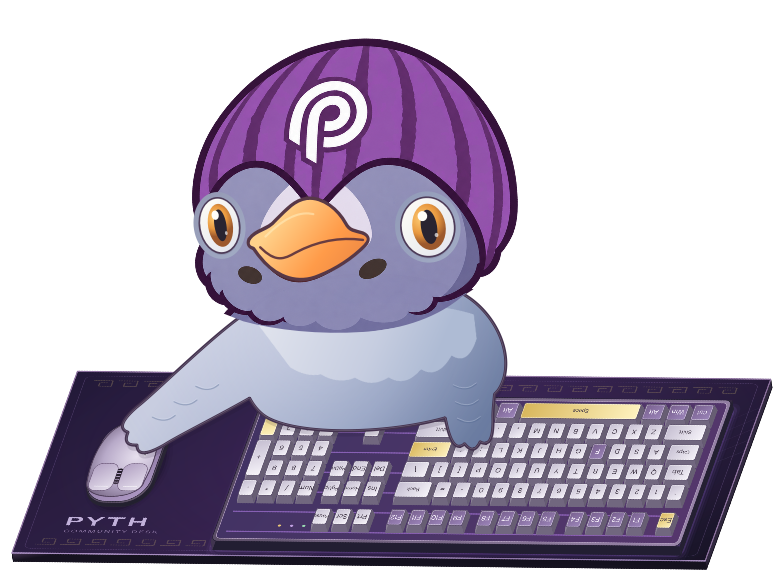
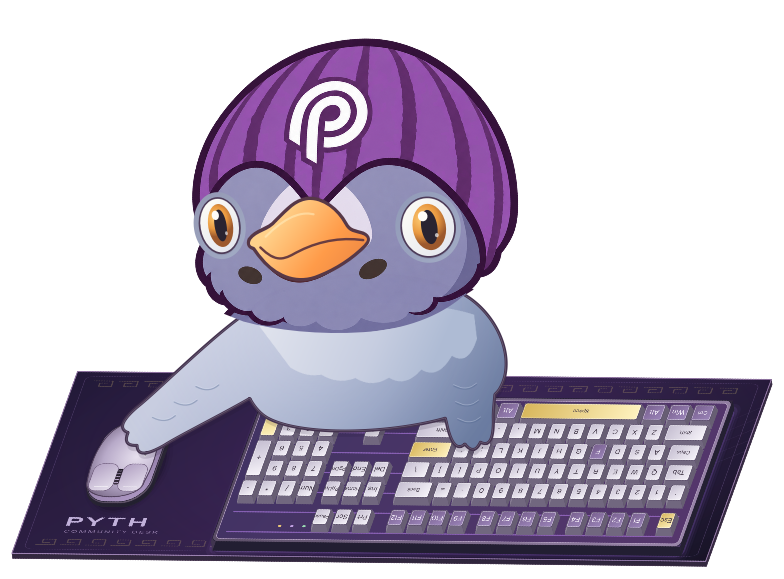
Fix perceived desk corner asymmetry with a continuous thin shell (0.10.1)

diff --git a/installer/uninstall.c b/installer/uninstall.c
@@ -38,10 +38,10 @@ static void remove_shortcut(int folder){
 }
 void pirb_uninstall_start(void){
  DWORD n=GetEnvironmentVariableW(L"LOCALAPPDATA",root,32768);if(!n||n>31000)fail(L"Cannot locate the install folder / Không tìm thấy thư mục cài.");
- lstrcatW(root,L"\\Programs\\PIRBStudio\\0.10.0\\PirbDesk");lstrcpyW(exe,root);lstrcatW(exe,L"\\PirbDesk.exe");
+ lstrcatW(root,L"\\Programs\\PIRBStudio\\0.10.1\\PirbDesk");lstrcpyW(exe,root);lstrcatW(exe,L"\\PirbDesk.exe");
  GetModuleFileNameW(NULL,self,32768);lstrcpyW(command,root);lstrcatW(command,L"\\Uninstall.exe");
  if(!lstrcmpiW(self,command)){
-  if(MessageBoxW(NULL,L"Remove Pirb Desk 0.10.0? Your preferences and custom images will be kept.\n\nGỡ Pirb Desk 0.10.0? Tùy chọn và ảnh riêng được giữ lại.\nHãy thoát PIRB trước / Please exit PIRB first.",title,MB_YESNO|MB_ICONQUESTION)!=IDYES)ExitProcess(0);
+  if(MessageBoxW(NULL,L"Remove Pirb Desk 0.10.1? Your preferences and custom images will be kept.\n\nGỡ Pirb Desk 0.10.1? Tùy chọn và ảnh riêng được giữ lại.\nHãy thoát PIRB trước / Please exit PIRB first.",title,MB_YESNO|MB_ICONQUESTION)!=IDYES)ExitProcess(0);
   HANDLE check=CreateFileW(exe,GENERIC_WRITE,0,NULL,OPEN_EXISTING,FILE_ATTRIBUTE_NORMAL,NULL);
   if(check==INVALID_HANDLE_VALUE)fail(L"Exit PIRB and try again / Hãy thoát hẳn PIRB rồi thử lại.");CloseHandle(check);
   GetTempPathW(32768,tmp);if(!GetTempFileNameW(tmp,L"pru",0,copy))fail(L"Cannot create temporary file / Không tạo được tệp tạm.");
@@ -54,11 +54,11 @@ void pirb_uninstall_start(void){
  BOOL worker=FALSE;const wchar_t *arg=GetCommandLineW();while(*arg){if(!lstrcmpW(arg,L"--remove")){worker=TRUE;break;}arg++;}if(!worker)ExitProcess(1);
  Sleep(600);BOOL removed=FALSE;
  for(int i=0;i<8&&!removed;i++){removed=remove_tree(root);if(!removed)Sleep(200);}
- if(!removed)fail(L"Some files could not be removed. Exit PIRB and remove the 0.10.0 folder manually.\nMột số tệp chưa được gỡ. Hãy thoát PIRB rồi xóa thư mục 0.10.0.");
+ if(!removed)fail(L"Some files could not be removed. Exit PIRB and remove the 0.10.1 folder manually.\nMột số tệp chưa được gỡ. Hãy thoát PIRB rồi xóa thư mục 0.10.1.");
  CoInitializeEx(NULL,COINIT_APARTMENTTHREADED);remove_shortcut(CSIDL_DESKTOPDIRECTORY);remove_shortcut(CSIDL_PROGRAMS);CoUninitialize();
  HKEY key;const wchar_t *reg=L"Software\\Microsoft\\Windows\\CurrentVersion\\Uninstall\\PIRBStudio";wchar_t version[64];DWORD bytes=sizeof(version);
  if(RegOpenKeyExW(HKEY_CURRENT_USER,reg,0,KEY_QUERY_VALUE,&key)==ERROR_SUCCESS){
-  BOOL current=RegQueryValueExW(key,L"DisplayVersion",NULL,NULL,(BYTE*)version,&bytes)==ERROR_SUCCESS&&!lstrcmpW(version,L"0.10.0");RegCloseKey(key);if(current)RegDeleteKeyW(HKEY_CURRENT_USER,reg);
+  BOOL current=RegQueryValueExW(key,L"DisplayVersion",NULL,NULL,(BYTE*)version,&bytes)==ERROR_SUCCESS&&!lstrcmpW(version,L"0.10.1");RegCloseKey(key);if(current)RegDeleteKeyW(HKEY_CURRENT_USER,reg);
  }
- MessageBoxW(NULL,L"Pirb Desk 0.10.0 removed. Preferences kept.\nĐã gỡ Pirb Desk 0.10.0. Tùy chọn được giữ lại.",title,MB_OK|MB_ICONINFORMATION);ExitProcess(0);
+ MessageBoxW(NULL,L"Pirb Desk 0.10.1 removed. Preferences kept.\nĐã gỡ Pirb Desk 0.10.1. Tùy chọn được giữ lại.",title,MB_OK|MB_ICONINFORMATION);ExitProcess(0);
 }

diff --git a/installer/setup.c b/installer/setup.c
@@ -16,7 +16,7 @@ static void folder(wchar_t *path){if(!CreateDirectoryW(path,NULL)&&GetLastError(
 static void register_uninstall(void){
  HKEY key;const wchar_t *path=L"Software\\Microsoft\\Windows\\CurrentVersion\\Uninstall\\PIRBStudio";
  if(RegCreateKeyExW(HKEY_CURRENT_USER,path,0,NULL,0,KEY_SET_VALUE,NULL,&key,NULL)!=ERROR_SUCCESS)return;
- const wchar_t *name=L"Pirb Desk 0.10.0",*version=L"0.10.0",*publisher=L"Pirb Desk Community";
+ const wchar_t *name=L"Pirb Desk 0.10.1",*version=L"0.10.1",*publisher=L"Pirb Desk Community";
  RegSetValueExW(key,L"DisplayName",0,REG_SZ,(const BYTE*)name,(lstrlenW(name)+1)*2);
  RegSetValueExW(key,L"DisplayVersion",0,REG_SZ,(const BYTE*)version,(lstrlenW(version)+1)*2);
  RegSetValueExW(key,L"Publisher",0,REG_SZ,(const BYTE*)publisher,(lstrlenW(publisher)+1)*2);
@@ -50,9 +50,9 @@ static void shortcut(int csidl){
  }
 }
 void pirb_setup_start(void){
- if(MessageBoxW(NULL,L"Cài Pirb Desk 0.10.0 cho tài khoản hiện tại?\n\nWindows 10 (1809+) / 11, 64-bit. Python đã kèm sẵn. Không cần tải hay cài Python riêng.\nWindows 10 (1809+) / 11 x64. Python is bundled; no separate download or installation.\nSẽ tạo biểu tượng Desktop và Start Menu.\nHãy thoát PIRB đang chạy trước khi tiếp tục.",L"Pirb Desk · Cài đặt",MB_YESNO|MB_ICONINFORMATION)!=IDYES)ExitProcess(0);
+ if(MessageBoxW(NULL,L"Cài Pirb Desk 0.10.1 cho tài khoản hiện tại?\n\nWindows 10 (1809+) / 11, 64-bit. Python đã kèm sẵn. Không cần tải hay cài Python riêng.\nWindows 10 (1809+) / 11 x64. Python is bundled; no separate download or installation.\nSẽ tạo biểu tượng Desktop và Start Menu.\nHãy thoát PIRB đang chạy trước khi tiếp tục.",L"Pirb Desk · Cài đặt",MB_YESNO|MB_ICONINFORMATION)!=IDYES)ExitProcess(0);
  DWORD n=GetEnvironmentVariableW(L"LOCALAPPDATA",base,32768);if(!n||n>31000)fail(L"Không tìm thấy thư mục dữ liệu tài khoản.");
- lstrcpyW(destination,base);lstrcatW(destination,L"\\Programs");folder(destination);lstrcatW(destination,L"\\PIRBStudio");folder(destination);lstrcatW(destination,L"\\0.10.0");folder(destination);
+ lstrcpyW(destination,base);lstrcatW(destination,L"\\Programs");folder(destination);lstrcatW(destination,L"\\PIRBStudio");folder(destination);lstrcatW(destination,L"\\0.10.1");folder(destination);
  lstrcpyW(appdir,destination);lstrcatW(appdir,L"\\PirbDesk");lstrcpyW(exe,appdir);lstrcatW(exe,L"\\PirbDesk.exe");
  if(GetFileAttributesW(exe)!=INVALID_FILE_ATTRIBUTES){HANDLE check=CreateFileW(exe,GENERIC_WRITE,0,NULL,OPEN_EXISTING,FILE_ATTRIBUTE_NORMAL,NULL);if(check==INVALID_HANDLE_VALUE)fail(L"PIRB đang chạy. Hãy thoát bằng Exit ở biểu tượng cạnh đồng hồ rồi mở Setup lại.");CloseHandle(check);}
  GetModuleFileNameW(NULL,self,32768);HANDLE source=CreateFileW(self,GENERIC_READ,FILE_SHARE_READ,NULL,OPEN_EXISTING,FILE_ATTRIBUTE_NORMAL,NULL);if(source==INVALID_HANDLE_VALUE)fail(L"Không đọc được file Setup.");

diff --git a/app/skins.py b/app/skins.py
@@ -2,7 +2,7 @@
 from PySide6.QtCore import Qt,QPointF,QRectF
 from PySide6.QtGui import QPixmap,QPainter,QPolygonF,QColor,QTransform,QPainterPath,QLinearGradient,QPen,QRadialGradient,QFont
 from preferences import load_image
-from desk_geometry import tabletop_corners,texture_projection,DESK_DEPTH
+from desk_geometry import tabletop_corners,texture_projection,tabletop_path,desk_body_path
 
 EDGE=tabletop_corners()
 _CLASSIC=None
@@ -48,12 +48,11 @@ def desk_surface(root,prefs):
     layer=QPixmap(2200,1360);layer.setDevicePixelRatio(2);layer.fill(Qt.GlobalColor.transparent)
     p=QPainter(layer);p.setRenderHint(QPainter.RenderHint.Antialiasing);p.setRenderHint(QPainter.RenderHint.SmoothPixmapTransform)
     back_left,back_right,front_right,front_left=EDGE
-    # Front and right fascia share the exact surface corners.
-    for a,b,top,bottom in ((front_left,front_right,'#42334f','#15121f'),(front_right,back_right,'#30283e','#14111d')):
-        face=QPolygonF([a,b,b+QPointF(0,DESK_DEPTH),a+QPointF(0,DESK_DEPTH)])
-        gradient=QLinearGradient(a,a+QPointF(0,DESK_DEPTH));gradient.setColorAt(0,QColor(top));gradient.setColorAt(1,QColor(bottom))
-        p.setBrush(gradient);p.setPen(QPen(QColor('#171320'),1));p.drawPolygon(face)
-    shape=QPainterPath();shape.addPolygon(QPolygonF(EDGE));shape.closeSubpath();p.setClipPath(shape)
+    # A single thin shell avoids a darker right strip and double-stroked corner.
+    p.setBrush(QColor('#33283f'))
+    p.setPen(QPen(QColor('#45364f'),.9,Qt.PenStyle.SolidLine,Qt.PenCapStyle.RoundCap,Qt.PenJoinStyle.RoundJoin))
+    p.drawPath(desk_body_path())
+    shape=tabletop_path();p.setClipPath(shape)
     gradient=QLinearGradient(200,300,850,620);gradient.setColorAt(0,QColor('#403448'));gradient.setColorAt(1,QColor('#282333'));p.fillPath(shape,gradient)
     path=skin_path(root,prefs)
     image=classic_surface() if prefs['skin']=='pyth_classic' else None
@@ -67,8 +66,9 @@ def desk_surface(root,prefs):
         p.save();p.setTransform(texture_projection(),True)
         p.drawPixmap(QRectF(0,0,1000,600),image,source_crop(image.width(),image.height(),prefs));p.restore()
         p.fillPath(shape,QColor(19,13,31,round(255*(1-prefs['brightness']/100))))
-    p.setClipping(False);p.setBrush(Qt.BrushStyle.NoBrush);p.setPen(QPen(QColor('#8c719e'),1.5));p.drawPath(shape)
-    p.setPen(QPen(QColor(205,181,238,110),1.7));p.drawLine(front_left,front_right)
+    p.setClipping(False);p.setBrush(Qt.BrushStyle.NoBrush)
+    p.setPen(QPen(QColor('#8c719e'),1.25,Qt.PenStyle.SolidLine,Qt.PenCapStyle.RoundCap,Qt.PenJoinStyle.RoundJoin));p.drawPath(shape)
+    p.setPen(QPen(QColor(205,181,238,70),1.1));p.drawLine(front_left,front_right)
     p.end();return layer
 
 def draw_rgb(p,board,mode,elapsed):

diff --git a/tests/test_desk_audio.py b/tests/test_desk_audio.py
@@ -10,7 +10,7 @@ from pathlib import Path
 os.environ.setdefault('QT_QPA_PLATFORM','offscreen')
 sys.path.insert(0,str(Path(__file__).resolve().parents[1]/'app'))
 from PySide6.QtCore import QPointF,QSettings
-from PySide6.QtGui import QPainterPath,QPolygonF
+from PySide6.QtGui import QPainterPath,QPolygonF,QTransform
 from PySide6.QtWidgets import QApplication
 import custom_audio as audio
 import desk_geometry as desk
@@ -39,6 +39,18 @@ class DeskAndAudioTests(unittest.TestCase):
         self.assertLess(front_left.x(),back_left.x());self.assertGreater(front_left.y(),back_left.y())
         shape=QPainterPath();shape.addPolygon(QPolygonF(desk.tabletop_corners()))
         self.assertTrue(shape.contains(QPointF(245,420)))
+
+    def test_table_shell_is_continuous_and_side_vectors_match_after_rotation(self):
+        body=desk.desk_body_path()
+        self.assertEqual(len(body.toFillPolygons()),1)
+        a,b,c,d=desk.tabletop_corners()
+        for start,end in ((d,c),(c,b)):
+            self.assertTrue(body.contains((start+end)/2+QPointF(0,desk.DESK_DEPTH/2)))
+        for angle in range(-180,181,15):
+            transform=QTransform();transform.rotate(angle)
+            aa,bb,cc,dd=[transform.map(p) for p in (a,b,c,d)]
+            self.assertLess(((dd-aa)-(cc-bb)).manhattanLength(),1e-7)
+        self.assertLessEqual(body.boundingRect().height(),desk.tabletop_path().boundingRect().height()+desk.DESK_DEPTH+.001)
 
     def test_surface_is_not_clipped_and_old_images_still_render(self):
         root=Path(__file__).resolve().parents[1]/'app'

diff --git a/app/desk_geometry.py b/app/desk_geometry.py
@@ -1,6 +1,6 @@
 """One plane for the keyboard, tabletop, texture and view bounds."""
 from PySide6.QtCore import QPointF, QRectF
-from PySide6.QtGui import QTransform
+from PySide6.QtGui import QTransform, QPainterPath, QPolygonF
 
 
 def keyboard_projection():
@@ -10,7 +10,7 @@ def keyboard_projection():
 # Board units. Include the mouse to the left of the keyboard in screen space.
 DESK_RECT = QRectF(-45, -20, 855, 255)
 TEXTURE_RECT = QRectF(0, 0, 1000, 600)
-DESK_DEPTH = 10
+DESK_DEPTH = 6
 
 
 def tabletop_corners():
@@ -32,3 +32,25 @@ def texture_projection():
 def desk_outline():
     points = tabletop_corners()
     return points + [point + QPointF(0, DESK_DEPTH) for point in points]
+
+
+def tabletop_path():
+    path = QPainterPath()
+    path.addPolygon(QPolygonF(tabletop_corners()))
+    path.closeSubpath()
+    return path
+
+
+def desk_body_path():
+    """One swept solid, without overlapping front/right fascia outlines."""
+    corners = tabletop_corners()
+    offset = QPointF(0, DESK_DEPTH)
+    body = tabletop_path()
+    body = body.united(QTransform.fromTranslate(0, DESK_DEPTH).map(body))
+    for index, a in enumerate(corners):
+        b = corners[(index + 1) % len(corners)]
+        face = QPainterPath()
+        face.addPolygon(QPolygonF([a, b, b + offset, a + offset]))
+        face.closeSubpath()
+        body = body.united(face)
+    return body

diff --git a/app/version.py b/app/version.py
@@ -1,5 +1,5 @@
 """Release metadata shared by the UI and packaging tools."""
-VERSION = '0.10.0'
+VERSION = '0.10.1'
 APP_NAME = 'Pirb Desk'
 ARTIFACT_PREFIX = 'Pirb_Desk'
 LEGACY_ARTIFACT_PREFIX = 'PIRB_Studio'

diff --git a/README.md b/README.md
@@ -1,10 +1,16 @@
-# Pirb Desk 0.10.0
+# Pirb Desk 0.10.1
 
 Previously **PIRB Studio**. Community desktop companion; not an official Pyth product. The repository URL and stable preference/data IDs stay unchanged for upgrades.
 
 ![Pirb Desk / Pyth Classic](docs/pirb-desk.png)
 
-## New in 0.10.0
+## 0.10.1 visual correction
+
+The desk now uses one continuous, thinner body with a consistent outline. This removes the separately shaded right fascia and double-stroked front-right corner that made the right side look steeper. The actual left/right tabletop depth vectors remain identical; keyboard/hand contact and pose are unchanged.
+
+![Desk corners on white](docs/desk-corners.png)
+
+## Features introduced in 0.10.0
 
 The tabletop, texture and keyboard now share one projection, with a thin desk fascia. New profiles use a quiet purple **Pyth Classic** surface. Existing profiles keep their selected images; choose **Appearance → Use Pyth Classic background** to switch.
 
@@ -12,12 +18,12 @@ The tabletop, texture and keyboard now share one projection, with a thin desk fa
 
 ## Upgrading and compatibility
 
-Download **Pirb_Desk_0.10.0_Windows_x64_Setup.exe**. Exit the old app, install, then use the **Pirb Desk** shortcut. Language, images, pose and volume are retained. Setup removes the old named shortcut only when it targets the app-owned installed PIRB.exe. Old version folders are retained.
+Download **Pirb_Desk_0.10.1_Windows_x64_Setup.exe**. Exit the old app, install, then use the **Pirb Desk** shortcut. Language, images, pose and volume are retained. Setup removes the old named shortcut only when it targets the app-owned installed PIRB.exe. Old version folders are retained.
 
-The release also includes **PIRB_Studio_0.10.0_Windows_x64_Setup.exe**, a byte-identical installer alias for installed 0.9.x update clients. Download only one Setup. Both names are listed in SHA256SUMS.txt. New clients accept the new and legacy asset names. The stable install parent and uninstall registry key keep their old internal IDs deliberately.
+The release also includes **PIRB_Studio_0.10.1_Windows_x64_Setup.exe**, a byte-identical installer alias for installed 0.9.x update clients. Download only one Setup. Both names are listed in SHA256SUMS.txt. New clients accept the new and legacy asset names. The stable install parent and uninstall registry key keep their old internal IDs deliberately.
 
 
-[Tiếng Việt](README_VI.md) · **Version 0.10.0** · Windows x64
+[Tiếng Việt](README_VI.md) · **Version 0.10.1** · Windows x64
 
 An animated pigeon desktop companion that reacts to typing and mouse clicks. Customize the scene, expressions, effects and sounds in a Pythenians-inspired purple, gold and ivory Settings window.
 
@@ -25,7 +31,7 @@ An animated pigeon desktop companion that reacts to typing and mouse clicks. Cus
 
 ## Install
 
-Download **Pirb_Desk_0.10.0_Windows_x64_Setup.exe** from the repository's **Releases**. GitHub's **Code → Download ZIP** downloads source code, not the ready-to-run app.
+Download **Pirb_Desk_0.10.1_Windows_x64_Setup.exe** from the repository's **Releases**. GitHub's **Code → Download ZIP** downloads source code, not the ready-to-run app.
 
 1. Exit old PIRB using its system-tray menu.
 2. Run Setup and confirm the installation.
@@ -33,9 +39,9 @@ Download **Pirb_Desk_0.10.0_Windows_x64_Setup.exe** from the repository's **Rele
 
 Python, Qt, artwork, sounds and both Settings languages are bundled. No Python, pip, WinRAR or administrator rights are needed. Setup and the companion work offline after downloading; optional update checks need internet. No separate Settings patch is needed.
 
-Install location: `%LOCALAPPDATA%\Programs\PIRBStudio\0.10.0\PirbDesk`.
+Install location: `%LOCALAPPDATA%\Programs\PIRBStudio\0.10.1\PirbDesk`.
 
-Portable alternative: extract the **entire** `Pirb_Desk_0.10.0_Windows_x64_Portable.zip`, then run `PirbDesk\PirbDesk.exe`. Keep `_internal` beside the executable. Do not run inside an archive viewer. Portable also stores preferences in your Windows user profile.
+Portable alternative: extract the **entire** `Pirb_Desk_0.10.1_Windows_x64_Portable.zip`, then run `PirbDesk\PirbDesk.exe`. Keep `_internal` beside the executable. Do not run inside an archive viewer. Portable also stores preferences in your Windows user profile.
 
 ## Requirements
 
@@ -80,7 +86,7 @@ After you choose Update now, the app downloads only this repository's Windows x6
 
 Exit the old app before upgrading. Existing preferences are reused. Old version folders/downloads are preserved, not automatically deleted.
 
-For an installed copy, exit PIRB and use **Windows Settings → Apps → Pirb Desk 0.10.0 → Uninstall**, or run its `Uninstall.exe`. Preferences/custom images remain. For portable, exit and delete its extracted folder; the included uninstaller targets the installed location only.
+For an installed copy, exit PIRB and use **Windows Settings → Apps → Pirb Desk 0.10.1 → Uninstall**, or run its `Uninstall.exe`. Preferences/custom images remain. For portable, exit and delete its extracted folder; the included uninstaller targets the installed location only.
 
 If startup fails, run `_internal\support\DIAGNOSTICS.bat`. Errors may be written to `%LOCALAPPDATA%\PIRBDesktop\startup-error.log`. For sound issues check Windows output/Volume Mixer and the Sound tab. If another app's keys do not animate, test with a normal non-elevated app. Report the exact message, PIRB version and Windows version. The community build is unsigned and Windows may warn about its publisher; the app does not require disabling protection.
 

diff --git a/README_VI.md b/README_VI.md
@@ -1,4 +1,4 @@
-# Pirb Desk 0.10.0
+# Pirb Desk 0.10.1
 
 [English](README.md) · Chim bồ câu phản hồi bàn phím và chuột trên Windows.
 
@@ -6,7 +6,13 @@
 
 ![Pirb Desk với mặt bàn Pyth Classic](docs/pirb-desk.png)
 
-### Mới trong 0.10.0
+### Sửa góc bàn trong 0.10.1
+
+Dựng cạnh bàn thành một khối liền và mỏng hơn, thống nhất màu/viền, bỏ dải cạnh phải tối và nét chồng ở góc trước. Hai cạnh mặt trên vẫn giữ chung hướng hình học; không đổi vị trí bàn phím hay điểm chạm cánh.
+
+![Góc bàn trên nền trắng](docs/desk-corners.png)
+
+### Các tính năng từ 0.10.0
 
 - Mặt bàn và bàn phím dùng chung hệ phối cảnh; cạnh bàn có chiều dày, không còn nghiêng so le.
 - **Pyth Classic** tím là nền mặc định cho hồ sơ mới. Hồ sơ cũ giữ nền đã chọn; vào Giao diện → **Dùng nền Pyth Classic** để chuyển.
@@ -29,14 +35,14 @@
 
 ## Cài đặt
 
-1. Vào **Releases**, tải **Pirb_Desk_0.10.0_Windows_x64_Setup.exe**. **Code → Download ZIP** chỉ là mã nguồn, không phải bộ cài.
+1. Vào **Releases**, tải **Pirb_Desk_0.10.1_Windows_x64_Setup.exe**. **Code → Download ZIP** chỉ là mã nguồn, không phải bộ cài.
 2. Thoát hẳn PIRB bằng menu biểu tượng cạnh đồng hồ.
 3. Mở Setup, đồng ý cài cho tài khoản hiện tại.
 4. Mở **Pirb Desk** từ Desktop hoặc Start Menu.
 
-Không cần quyền quản trị hay tệp cập nhật Settings riêng. Thư mục cài: `%LOCALAPPDATA%\Programs\PIRBStudio\0.10.0\PirbDesk`.
+Không cần quyền quản trị hay tệp cập nhật Settings riêng. Thư mục cài: `%LOCALAPPDATA%\Programs\PIRBStudio\0.10.1\PirbDesk`.
 
-Bản portable: giải nén **toàn bộ** `Pirb_Desk_0.10.0_Windows_x64_Portable.zip`, mở `PirbDesk\PirbDesk.exe`, giữ `_internal` bên cạnh. Không mở trực tiếp trong WinRAR. Portable vẫn lưu tùy chọn vào hồ sơ Windows.
+Bản portable: giải nén **toàn bộ** `Pirb_Desk_0.10.1_Windows_x64_Portable.zip`, mở `PirbDesk\PirbDesk.exe`, giữ `_internal` bên cạnh. Không mở trực tiếp trong WinRAR. Portable vẫn lưu tùy chọn vào hồ sơ Windows.
 
 ## Cách sử dụng
 
@@ -53,9 +59,9 @@ Mọi thay đổi lưu tự động. Chỉ chạy một phiên PIRB. Không tự
 
 ## Đổi tên và nâng cấp từ PIRB Studio
 
-Tải bộ cài **Pirb_Desk_0.10.0_Windows_x64_Setup.exe**, thoát app cũ rồi cài. Shortcut mới tên **Pirb Desk**; Setup chỉ gỡ shortcut PIRB Studio cũ nếu nó trỏ đúng bản cài do app sở hữu. Không xóa các thư mục phiên bản cũ hoặc dữ liệu riêng.
+Tải bộ cài **Pirb_Desk_0.10.1_Windows_x64_Setup.exe**, thoát app cũ rồi cài. Shortcut mới tên **Pirb Desk**; Setup chỉ gỡ shortcut PIRB Studio cũ nếu nó trỏ đúng bản cài do app sở hữu. Không xóa các thư mục phiên bản cũ hoặc dữ liệu riêng.
 
-Bản phát hành cũng có **PIRB_Studio_0.10.0_Windows_x64_Setup.exe**: đây là bản sao cùng nội dung/checksum, chỉ để updater 0.9.x nhận được tên tệp quen thuộc. Cả hai cài cùng Pirb Desk, chỉ cần tải một file. Giữ repo `liemdak/pirb-studio`, registry/QSettings/app-data ID cũ là chủ ý tương thích, không phải đổi tên còn sót.
+Bản phát hành cũng có **PIRB_Studio_0.10.1_Windows_x64_Setup.exe**: đây là bản sao cùng nội dung/checksum, chỉ để updater 0.9.x nhận được tên tệp quen thuộc. Cả hai cài cùng Pirb Desk, chỉ cần tải một file. Giữ repo `liemdak/pirb-studio`, registry/QSettings/app-data ID cũ là chủ ý tương thích, không phải đổi tên còn sót.
 
 ## Tự nhận biết bản cập nhật
 
@@ -73,7 +79,7 @@ Chỉ khi đồng ý, app mới tải bộ cài x64, hiện tiến trình/nút H
 
 Thoát bản cũ trước khi cài. 0.10.0 đọc lại tùy chọn cũ; ngôn ngữ mặc định là tiếng Việt khi chưa có lựa chọn. Setup không xóa thư mục bản cũ hoặc dọn Downloads.
 
-Gỡ bản cài qua **Windows Settings → Apps → Pirb Desk 0.10.0 → Uninstall** hoặc `Uninstall.exe` trong thư mục cài. Tùy chọn và ảnh riêng vẫn giữ lại. Với portable: thoát rồi xóa thư mục giải nén; trình gỡ đi kèm chỉ dành cho đường dẫn của bản cài.
+Gỡ bản cài qua **Windows Settings → Apps → Pirb Desk 0.10.1 → Uninstall** hoặc `Uninstall.exe` trong thư mục cài. Tùy chọn và ảnh riêng vẫn giữ lại. Với portable: thoát rồi xóa thư mục giải nén; trình gỡ đi kèm chỉ dành cho đường dẫn của bản cài.
 
 Không mở được: chạy `_internal\support\DIAGNOSTICS.bat`, kiểm tra `%LOCALAPPDATA%\PIRBDesktop\startup-error.log` nếu có. Không có tiếng: kiểm tra thiết bị phát/Volume Mixer và tab Âm thanh. Không nhận phím từ app khác: thử một app mở bình thường, không nâng quyền. PIRB báo đã chạy: tìm biểu tượng ở khay hệ thống, có thể trong mũi tên cạnh đồng hồ.
 

diff --git a/docs/VALIDATION.md b/docs/VALIDATION.md
@@ -1,4 +1,4 @@
-# Validation status — 0.10.0
+# Validation status — 0.10.1
 
 Local builds use Linux and official Windows x64 runtime inputs. Tests cover language changes without preference resets, persistence, dynamic image entries, menus, layout bounds, transform/contact regression and preference migration. UI images are rendered offscreen.
 
@@ -12,3 +12,6 @@ Update tests cover semantic version ordering, release channels/assets/URLs, no d
 
 
 0.10.0 adds 22 local regression tests in total: shared tabletop/keyboard and texture axes, surface bounds and old backgrounds, bounded WAV validation/copy/source-removal, per-category fallback, old preference retention, custom sound UI/VI-EN/reset and renamed/legacy release selection. Updated offscreen UI and scene captures are in this directory. These checks do not establish real Windows audio, interactive install/uninstall or full update success; report actual CI results separately.
+
+
+0.10.1 adds a regression for a single connected desk shell, covered front/right depth regions and identical side vectors through 25 scene rotations. There are 23 tests in total. White-background visual captures check the asymmetric-edge perception that prompted this correction.

diff --git a/CHANGELOG.md b/CHANGELOG.md
@@ -1,5 +1,14 @@
 # Pirb Desk changelog
 
+## 0.10.1 — Consistent desk edges
+
+Sửa cảm giác góc bàn bên phải dốc khác bên trái: dựng cạnh bàn thành một khối liền, giảm độ dày và thống nhất viền/màu, bỏ nét chồng ở góc trước phải. Giữ nguyên mặt phẳng bàn, bố cục và tùy chỉnh cũ.
+
+- Replace separately outlined front/right fascia polygons with one continuous swept body.
+- Reduce desk thickness from 10 to 6 scene units and use one shell material with rounded joins.
+- Keep identical tabletop side vectors and all keyboard/wing contacts; add a shell/rotation regression and white-background visual capture.
+
+
 ## 0.10.0 — Pirb Desk
 
 Đổi tên thành **Pirb Desk**. Sửa phối cảnh mặt bàn, thêm nền Pyth Classic và nhập WAV riêng cho từng nhóm phím/chuột. Giữ thiết lập cũ và khả năng cập nhật từ PIRB Studio 0.9.x. Vào Giao diện → Dùng nền Pyth Classic để chuyển từ nền cũ; âm tùy chỉnh ở tab Âm thanh. Không cần cài Python riêng.

diff --git a/docs/RELEASING.md b/docs/RELEASING.md
@@ -11,11 +11,11 @@ Manual repository setup (choose your account/visibility first):
 ```powershell
 git init -b main
 git add .
-git commit -m "Release Pirb Desk 0.10.0 with bilingual Pythenians settings"
+git commit -m "Release Pirb Desk 0.10.1 with bilingual Pythenians settings"
 gh auth login
 gh repo create pirb-studio --private --source . --remote origin --push
-git tag v0.10.0
-git push origin v0.10.0
+git tag v0.10.1
+git push origin v0.10.1
 ```
 
 No public visibility or open-source license is assumed. Organization policies may require allowing Actions to write repository contents.
